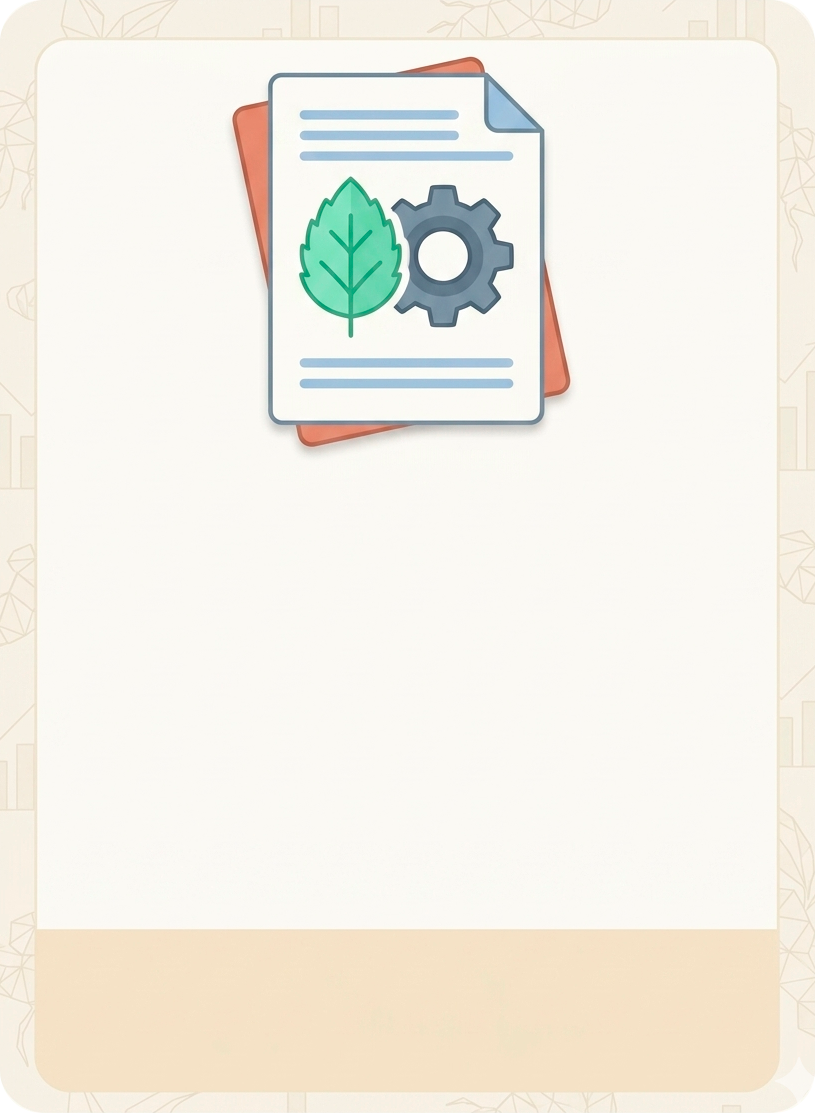
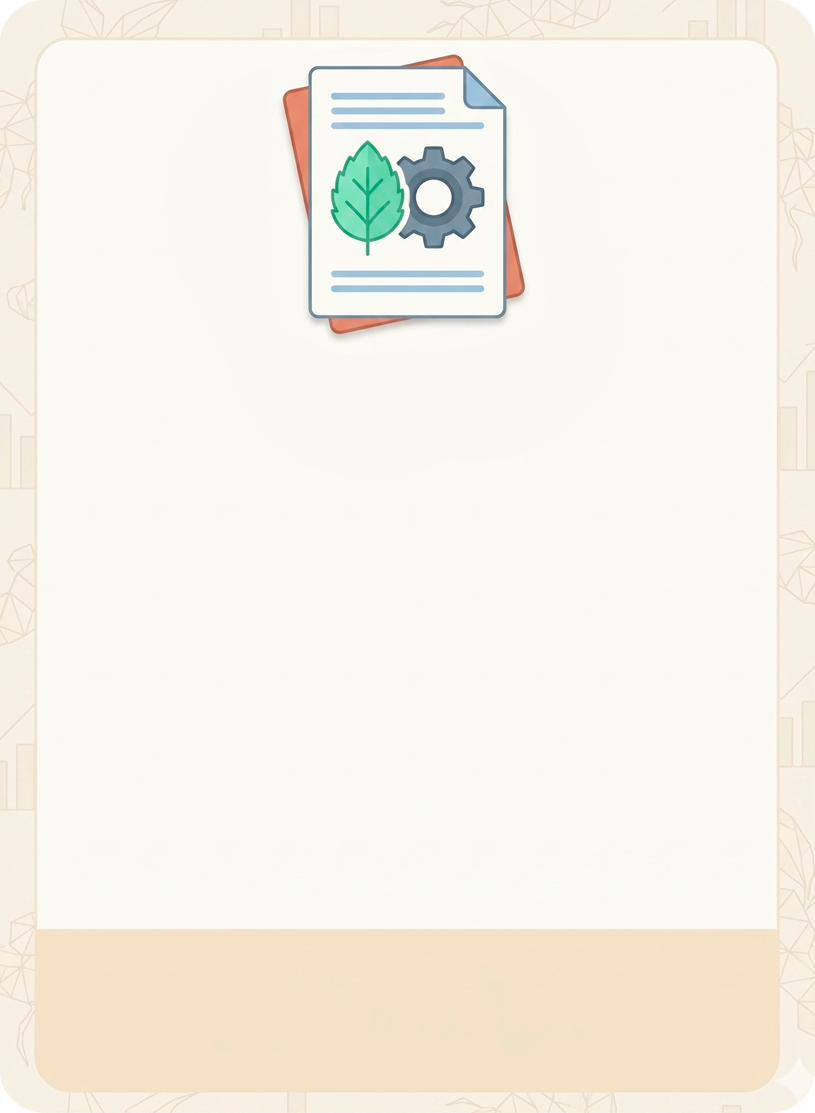
update: update background of cardModal

Changed region(s): [[0.2761, 0.0305, 0.7055, 0.4277]]

diff --git a/rhizome_app/src/components/cardModal.tsx b/rhizome_app/src/components/cardModal.tsx
@@ -9,20 +9,20 @@ function CardModal(props: ICardModal) {
         <>
             <div className="absolute z-1000 inset-0 bg-black/40 backdrop-blur-sm"></div>
 
-            <div className="absolute z-1001 flex justify-center items-center w-full h-full px-8">
-                <div className="relative flex flex-col justify-center items-center w-full max-w-[400px]">
+            <div className="absolute z-1001 flex justify-center items-center w-full h-full px-4">
+                <div className="relative flex flex-col justify-center items-center w-full max-w-100">
                     <img src={cardInfo} alt=""/>
-                    <div className="absolute flex flex-col items-center h-[41%] top-[40%] w-[90%] mx-16 ">
-                        <h1 className="text-[#1E293B] font-medium text-2xl [@media(min-width:400px)]:text-4xl pt-5">{title}</h1>
-                        <div className="relative px-2 overflow-y-auto h-[75%]">
-                            <p className="text-[#1E293B] font-medium text-sm [@media(min-width:400px)]:text-base pt-1">
+                    <div className="absolute flex flex-col items-center h-[56%] top-[26%] w-[90%] mx-16 ">
+                        <h1 className="text-[#1E293B] font-semibold text-2xl text-center leading-none [@media(min-width:400px)]:text-4xl pt-5">{title}</h1>
+                        <div className="relative px-2 overflow-y-auto h-[90%] pt-1">
+                            <p className="text-[#1E293B] text-justify leading-5 font-medium text-base [@media(min-width:400px)]:text-base pt-1">
                                 {description}
                             </p>
                         </div>
 
                     </div>
 
-                    <div className="absolute flex items-center justify-center gap-2 top-[84%] px-4 w-[90%] h-[13.5%]">
+                    <div className="absolute flex items-center justify-center gap-x-2 top-[84%]  px-1  w-[90%] h-[13.5%]">
                         {children} 
                     </div>
                 </div>   

diff --git a/rhizome_app/src/pages/offlineGame.tsx b/rhizome_app/src/pages/offlineGame.tsx
@@ -6,11 +6,12 @@ import ShowPlayerFunction from "./showPlayerFunction";
 import HeaderGamingPoints from "../components/headerGamingPoints";
 import AlertModal from "../components/alertModal";
 import PlenaryTimer from "../components/plenaryTimer";
+import CardModal from "../components/cardModal";
 
 function OfflineGame() {
     const [stateOfGame, setStateOfGame] = useState<
-        "selectPlayers" | "showFunctionPlayers" | "alert_test_show" | "plenary_timer_test_show"
-    >("plenary_timer_test_show");
+        "selectPlayers" | "showFunctionPlayers" | "alert_test_show" | "plenary_timer_test_show" | "modal_front_card"
+    >("modal_front_card");
 
     const listPlayersMock = [
         {
@@ -75,6 +76,11 @@ function OfflineGame() {
             return <AlertModal text={"Já ocorreram 3 votações reprovadas! Uma carta aleatoria vai ser aprovada!"} />;
         } else if (stateOfGame == "plenary_timer_test_show") {
             return <PlenaryTimer onFinish={handleOnFinishPlenaryTimer} />;
+        } else if(stateOfGame == "modal_front_card"){
+            return <PlenaryTimer onFinish={handleOnFinishPlenaryTimer} />
+            return <CardModal title="Corredores Agroecológicos Populares"
+                              description="Criação de redes agroecológicas geridas por cooperativas camponesas para abastecimento regional de alimentos sem intermediação de grandes redes varejistas. O projeto integra reflorestamento comunitário e soberania alimentar."
+                               />
         }
     };
 
